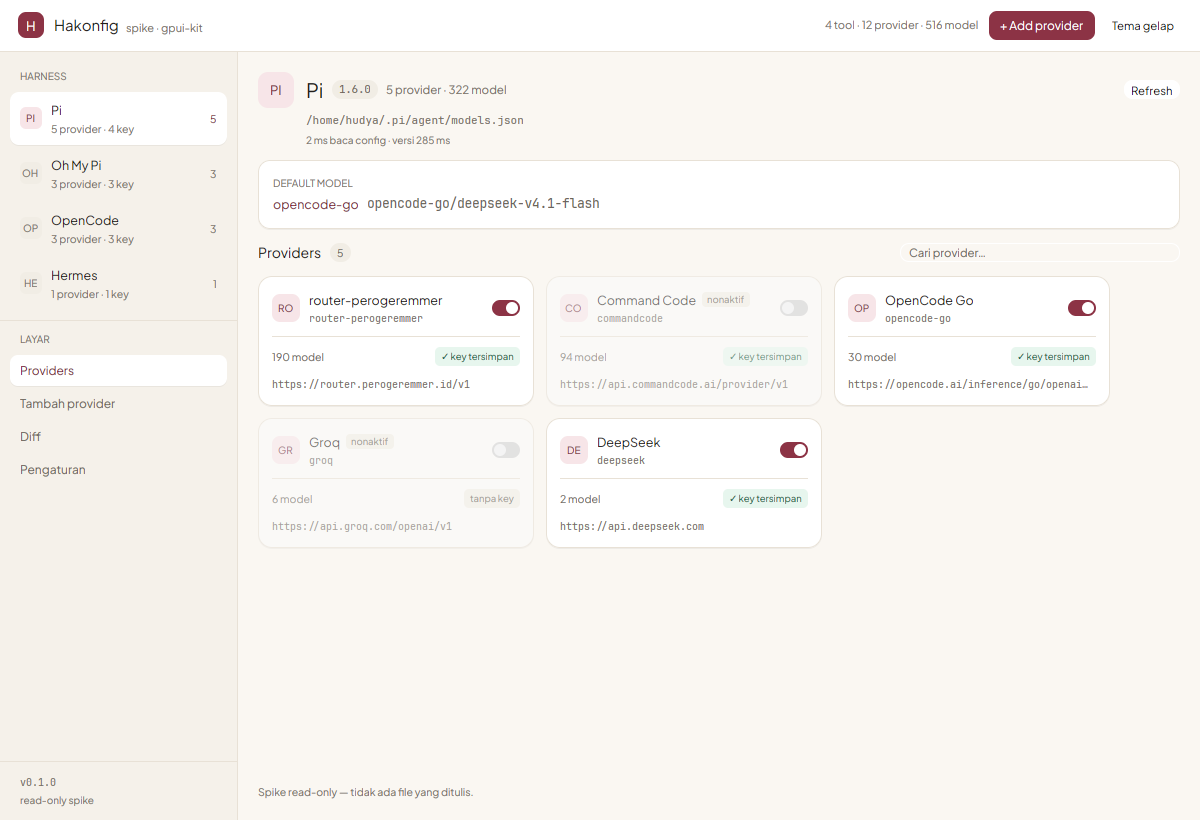
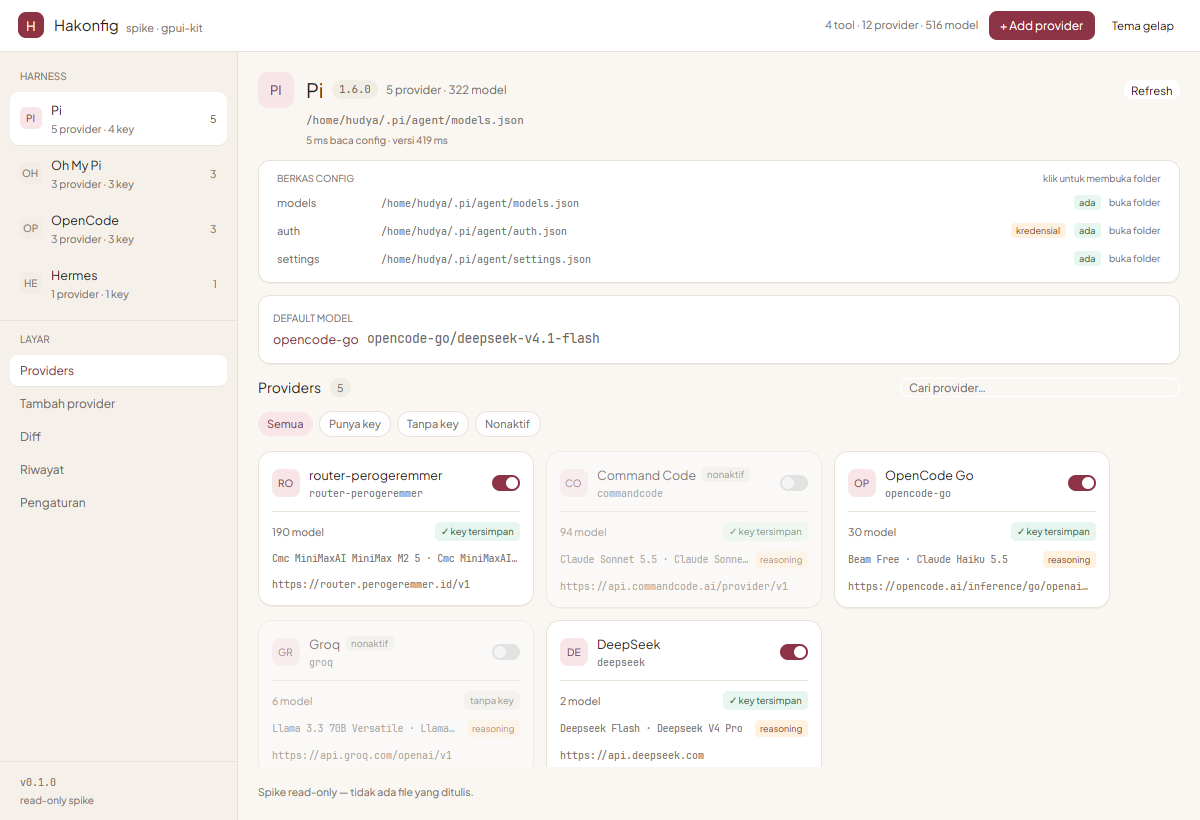
spike(gpui): panel berkas config + notice di layar Providers
- Kartu berkas config: role, path mono, badge kredensial, ada/belum ada, klik
  membuka foldernya lewat xdg-open/open/explorer.
- Kartu temuan dari api::list_notices, dengan penanda destructive; aksi
  perbaikan sengaja belum aktif (spike read-only).
- F25/F26 selesai; harness switch sudah diuji ke Hermes.

diff --git a/spike/gpui-kit/src/views/providers.rs b/spike/gpui-kit/src/views/providers.rs
@@ -75,6 +75,86 @@ pub fn render(app: &App, p: &Palette, cx: &mut Context<App>) -> impl IntoElement
         );
     }
 
+    column = column.child(config_files_card(entry, p, cx));
+
+    if !entry.notices.is_empty() {
+        let mut list = v_flex().gap(px(4.));
+        for notice in &entry.notices {
+            list = list.child(
+                h_flex()
+                    .gap(px(8.))
+                    .items_start()
+                    .child(
+                        div()
+                            .w(px(6.))
+                            .h(px(6.))
+                            .mt(px(5.))
+                            .flex_shrink_0()
+                            .rounded_full()
+                            .bg(if notice.destructive {
+                                p.danger
+                            } else {
+                                p.warn_text
+                            }),
+                    )
+                    .child(
+                        v_flex()
+                            .flex_1()
+                            .min_w_0()
+                            .gap(px(1.))
+                            .child(
+                                div()
+                                    .text_size(px(11.5))
+                                    .text_color(p.warn_text)
+                                    .child(notice.message.clone()),
+                            )
+                            .child(
+                                div()
+                                    .text_size(px(9.5))
+                                    .font_family(palette::MONO)
+                                    .text_color(p.ink_muted)
+                                    .child(format!(
+                                        "{} · {}",
+                                        notice.provider,
+                                        notice.fix.clone().unwrap_or_else(|| {
+                                            "perlu dibereskan manual".into()
+                                        })
+                                    )),
+                            ),
+                    ),
+            );
+        }
+        column = column.child(
+            v_flex()
+                .gap(px(4.))
+                .p(px(10.))
+                .rounded(px(12.))
+                .bg(p.warn_bg)
+                .border_1()
+                .border_color(p.warn_text.opacity(0.25))
+                .child(
+                    h_flex()
+                        .gap(px(6.))
+                        .items_center()
+                        .child(
+                            div()
+                                .text_size(px(9.5))
+                                .font_weight(FontWeight::SEMIBOLD)
+                                .text_color(p.warn_text)
+                                .child(format!("{} TEMUAN", entry.notices.len())),
+                        )
+                        .child(div().flex_1())
+                        .child(
+                            div()
+                                .text_size(px(9.5))
+                                .text_color(p.warn_text)
+                                .child("aksi perbaikan belum aktif di spike"),
+                        ),
+                )
+                .child(list),
+        );
+    }
+
     if let Some(provider) = entry.snapshot.as_ref().and_then(|s| s.default_provider.clone()) {
         if let Some(model) = entry.snapshot.as_ref().and_then(|s| s.default_model.clone()) {
             column = column.child(default_model_card(p, &provider, &model));
@@ -304,6 +384,126 @@ fn harness_header(
                     )),
             )
         })
+}
+
+/// Berkas config yang dikelola harness ini, dengan tombol buka folder.
+///
+/// Membuka folder memakai perintah OS (`xdg-open`/`open`/`explorer`) — sama
+/// seperti tombol "open folder" di GUI web, tanpa menambah dependency.
+fn config_files_card(
+    entry: &HarnessEntry,
+    p: &Palette,
+    _cx: &mut Context<App>,
+) -> impl IntoElement {
+    let files = entry
+        .snapshot
+        .as_ref()
+        .map(|s| s.files.clone())
+        .unwrap_or_default();
+
+    let mut rows = v_flex().gap(px(2.));
+    for file in files {
+        let dir = std::path::Path::new(&file.path)
+            .parent()
+            .map(|d| d.display().to_string())
+            .unwrap_or_else(|| file.path.clone());
+        rows = rows.child(
+            h_flex()
+                .id(ElementId::Name(format!("open-{}", file.path).into()))
+                .gap(px(8.))
+                .items_center()
+                .px(px(8.))
+                .py(px(4.))
+                .rounded(px(7.))
+                .cursor_pointer()
+                .hover(|s| s.bg(p.surface_muted))
+                .on_click(move |_, _, _| open_folder(&dir))
+                .child(
+                    div()
+                        .w(px(96.))
+                        .flex_shrink_0()
+                        .text_size(px(11.))
+                        .text_color(p.ink_secondary)
+                        .child(file.role.clone()),
+                )
+                .child(
+                    div()
+                        .flex_1()
+                        .min_w_0()
+                        .truncate()
+                        .text_size(px(10.))
+                        .font_family(palette::MONO)
+                        .text_color(p.ink_muted)
+                        .child(file.path.clone()),
+                )
+                .when(file.sensitive, |s| {
+                    s.child(
+                        div()
+                            .px(px(5.))
+                            .rounded(px(4.))
+                            .bg(p.warn_bg)
+                            .text_color(p.warn_text)
+                            .text_size(px(9.))
+                            .child("kredensial"),
+                    )
+                })
+                .child(
+                    div()
+                        .px(px(5.))
+                        .rounded(px(4.))
+                        .bg(if file.exists { p.ok_bg } else { p.neutral_bg })
+                        .text_color(if file.exists { p.ok_text } else { p.neutral_text })
+                        .text_size(px(9.))
+                        .child(if file.exists { "ada" } else { "belum ada" }),
+                )
+                .child(
+                    div()
+                        .text_size(px(9.5))
+                        .text_color(p.ink_muted)
+                        .child("buka folder"),
+                ),
+        );
+    }
+
+    v_flex()
+        .gap(px(4.))
+        .p(px(10.))
+        .rounded(px(12.))
+        .bg(p.surface)
+        .border_1()
+        .border_color(p.line)
+        .shadow_2xs()
+        .child(
+            h_flex()
+                .px(px(8.))
+                .gap(px(6.))
+                .items_center()
+                .child(
+                    div()
+                        .text_size(px(9.5))
+                        .font_weight(FontWeight::SEMIBOLD)
+                        .text_color(p.ink_muted)
+                        .child("BERKAS CONFIG"),
+                )
+                .child(div().flex_1())
+                .child(
+                    div()
+                        .text_size(px(9.5))
+                        .text_color(p.ink_muted)
+                        .child("klik untuk membuka folder"),
+                ),
+        )
+        .child(rows)
+}
+
+fn open_folder(dir: &str) {
+    #[cfg(target_os = "linux")]
+    let cmd = "xdg-open";
+    #[cfg(target_os = "macos")]
+    let cmd = "open";
+    #[cfg(target_os = "windows")]
+    let cmd = "explorer";
+    let _ = std::process::Command::new(cmd).arg(dir).spawn();
 }
 
 fn default_model_card(p: &Palette, provider: &str, model: &str) -> impl IntoElement {

diff --git a/spike/gpui-kit/src/data.rs b/spike/gpui-kit/src/data.rs
@@ -7,7 +7,7 @@ use std::time::Instant;
 
 
 use hakonfig_core::api;
-use hakonfig_core::engine::model::HarnessSnapshot;
+use hakonfig_core::engine::model::{HarnessSnapshot, Notice};
 
 pub struct HarnessEntry {
     pub id: String,
@@ -19,6 +19,7 @@ pub struct HarnessEntry {
     pub version: Option<String>,
     pub config_path: String,
     pub snapshot: Option<HarnessSnapshot>,
+    pub notices: Vec<Notice>,
     pub error: Option<String>,
     /// (baca config, deteksi versi tool) dalam milidetik.
     pub timings: (u128, u128),
@@ -43,7 +44,13 @@ impl HarnessEntry {
         };
         let read_ms = t_read.elapsed().as_millis();
 
+        // Notice = hal di config yang membuat provider/model tidak terlihat
+        // harness. Murah (membaca berkas yang sama) dan penting untuk ditampilkan
+        // sebelum pengguna bingung "sudah ditulis tapi tidak muncul".
+        let notices = api::list_notices(Some(id.clone())).unwrap_or_default();
+
         Self {
+            notices,
             timings: (read_ms, 0),
             version: None,
             config_path: info

diff --git a/spike/gpui-kit/PROGRESS.md b/spike/gpui-kit/PROGRESS.md
@@ -30,7 +30,7 @@ menggabungkannya ke sini agar tidak ada konflik tulis.
 | Tambah provider | 0 | 7 |
 | Diff | 0 | 6 |
 | Riwayat & backup | 2 | 2 |
-| Halaman harness | 0 | 4 |
+| Halaman harness | 3 | 4 |
 | Pengaturan | 0 | 5 |
 | Lintas fitur | 1 | 5 |
 
@@ -47,6 +47,16 @@ xdotool search --name "spike gpui-kit" | tail -1 | xargs -I{} import -window {} 
 ```
 
 ## Log
+
+### 2026-11-23 01:10 · repo · berkas config + notice di layar Providers
+- Kerja: kartu "Berkas config" (role, path mono, badge kredensial, ada/belum,
+  klik = buka folder lewat `xdg-open`/`open`/`explorer`), dan kartu temuan
+  dari `api::list_notices` (amber, destructive ditandai merah).
+- File: `src/views/providers.rs`, `src/data.rs`.
+- Verifikasi: build hijau; `docs/ui-light.png`; uji pindah harness ke Hermes
+  (v0.20.1, eksperimental, 2 berkas, auth ditandai kredensial).
+- Catatan: `list_notices` membaca ulang berkas yang sama (±5 ms/harness), jadi
+  digabung ke `HarnessEntry::load` alih-alih panggilan terpisah.
 
 ### 2026-11-23 00:55 · repo · startup dipangkas 3x + layar Riwayat
 - Kerja: (1) `harness_version()` dipindah ke background, config dibaca sinkron

diff --git a/spike/gpui-kit/FEATURES.md b/spike/gpui-kit/FEATURES.md
@@ -78,8 +78,8 @@ Aturan tetap untuk semua pekerjaan di spike ini:
 
 | ID | Fitur | Status | File |
 |----|-------|--------|------|
-| F25 | Panel berkas config: path, ada/tidak, sensitif, tombol buka folder | [ ] | `views/harness.rs` |
-| F26 | Notices: daftar masalah config + aksi perbaikan (preview saja) | [ ] | `views/harness.rs` |
+| F25 | Panel berkas config: path, ada/tidak, sensitif, buka folder | [x] | `views/providers.rs` |
+| F26 | Notices: daftar masalah config (aksi perbaikan belum aktif) | [x] | `views/providers.rs` |
 | F27 | Install/uninstall tool dengan log streaming + progress | [ ] | `views/harness.rs` |
 | F28 | Deteksi versi tool di background, tidak di jalur frame pertama | [x] | `src/data.rs` |
 
